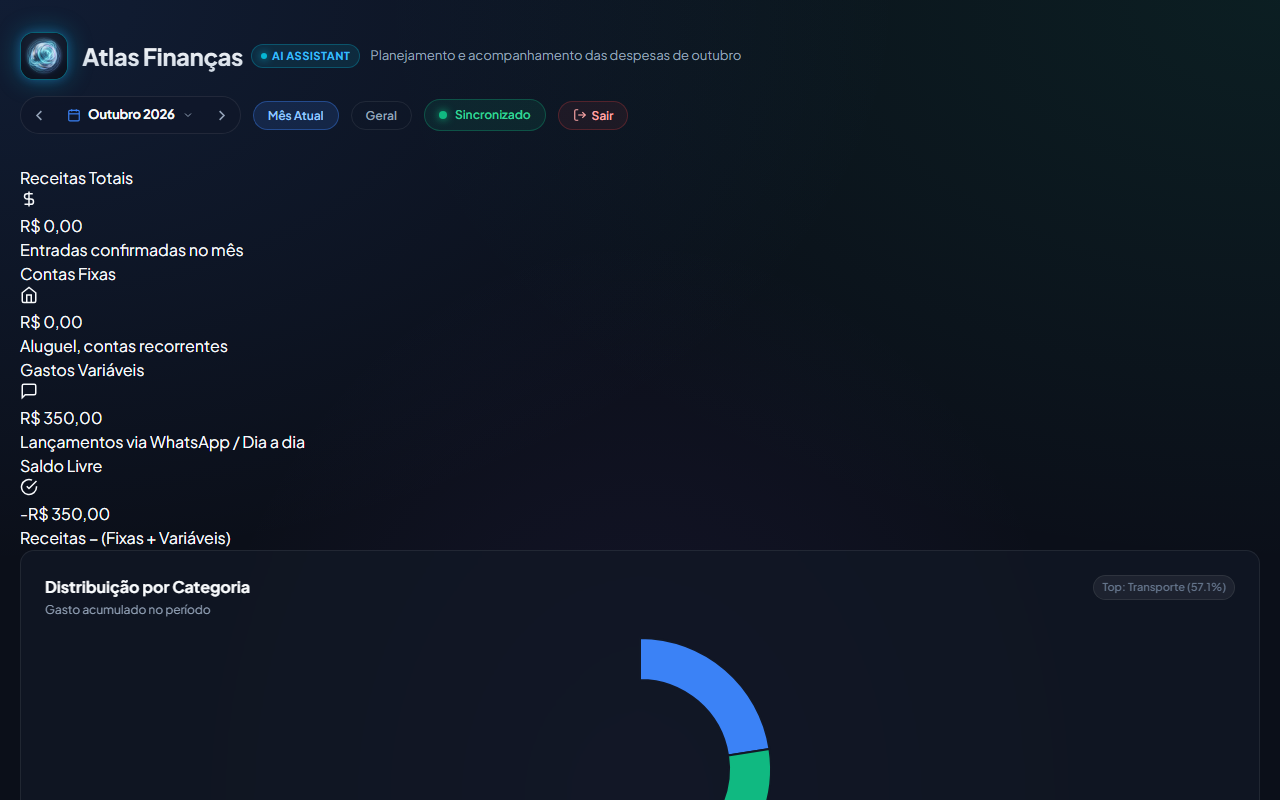
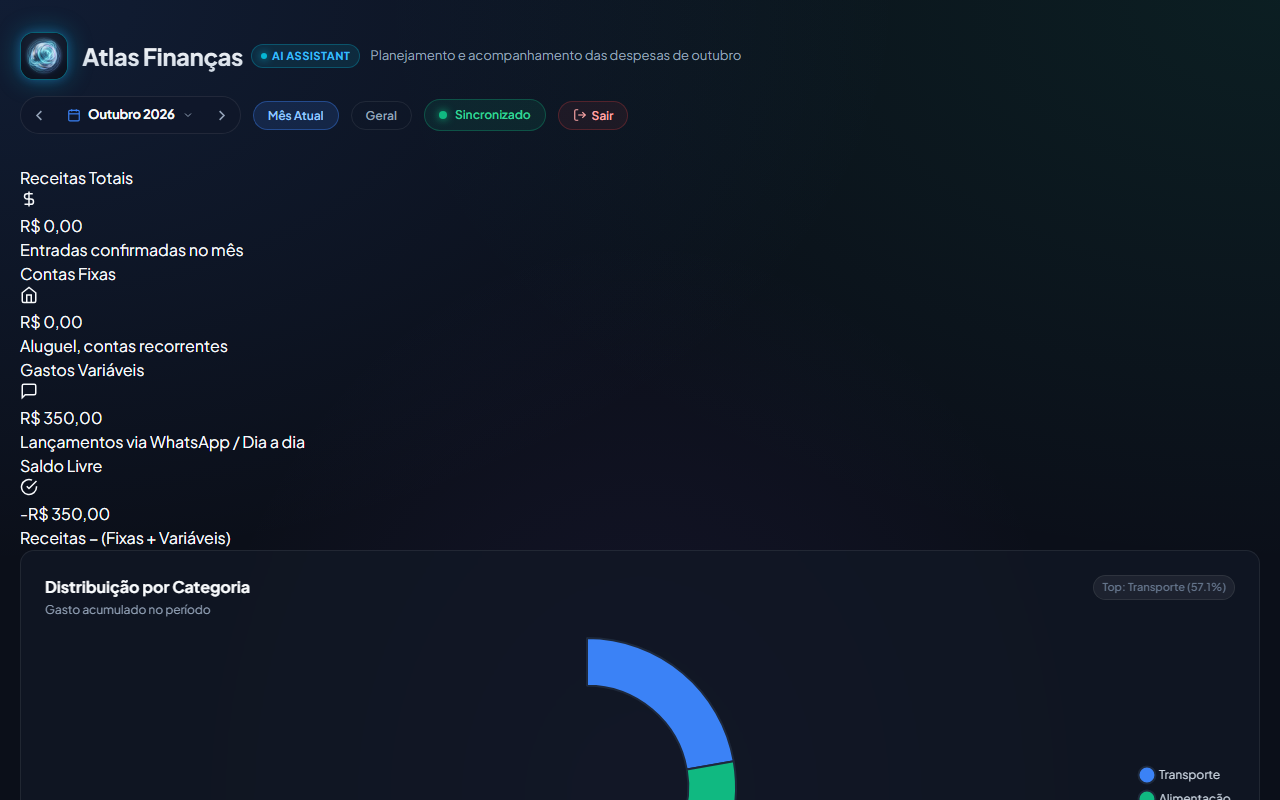
feat(build): multi-stage docker build, vite dist serving, render config and adr

Changed region(s): [[0.4375, 0.7812, 0.625, 1.0], [0.875, 0.9375, 0.9688, 1.0]]

diff --git a/frontend/src/js/components/table.ts b/frontend/src/js/components/table.ts
@@ -134,10 +134,10 @@ export function renderTableAndCards(): void {
           </td>
           <td style="text-align: right;">
             <div style="display: inline-flex; gap: 6px;">
-              <button class="btn-action" data-action="edit-tx" data-id="${t.id}" title="Editar lançamento">
+              <button class="btn-action btn-edit" data-action="edit-tx" data-id="${t.id}" title="Editar lançamento">
                 <svg width="15" height="15" fill="none" stroke="currentColor" stroke-width="2" viewBox="0 0 24 24"><path d="M11 4H4a2 2 0 0 0-2 2v14a2 2 0 0 0 2 2h14a2 2 0 0 0 2-2v-7"></path><path d="M18.5 2.5a2.121 2.121 0 0 1 3 3L12 15l-4 1 1-4 9.5-9.5z"></path></svg>
               </button>
-              <button class="btn-action delete" data-action="delete-tx" data-id="${t.id}" title="Excluir lançamento">
+              <button class="btn-action delete btn-delete" data-action="delete-tx" data-id="${t.id}" title="Excluir lançamento">
                 <svg width="15" height="15" fill="none" stroke="currentColor" stroke-width="2" viewBox="0 0 24 24"><path d="M3 6h18M19 6v14a2 2 0 0 1-2 2H7a2 2 0 0 1-2-2V6m3 0V4a2 2 0 0 1 2-2h4a2 2 0 0 1 2 2v2"></path></svg>
               </button>
             </div>
@@ -209,10 +209,10 @@ export function renderTableAndCards(): void {
               <span class="channel-badge">${escapeHtml(canalFormatado)}</span>
             </div>
             <div class="mobile-tx-actions">
-              <button class="btn-action" data-action="edit-tx" data-id="${t.id}" title="Editar">
+              <button class="btn-action btn-edit" data-action="edit-tx" data-id="${t.id}" title="Editar">
                 <svg width="15" height="15" fill="none" stroke="currentColor" stroke-width="2" viewBox="0 0 24 24"><path d="M11 4H4a2 2 0 0 0-2 2v14a2 2 0 0 0 2 2h14a2 2 0 0 0 2-2v-7"></path><path d="M18.5 2.5a2.121 2.121 0 0 1 3 3L12 15l-4 1 1-4 9.5-9.5z"></path></svg>
               </button>
-              <button class="btn-action delete" data-action="delete-tx" data-id="${t.id}" title="Excluir">
+              <button class="btn-action delete btn-delete" data-action="delete-tx" data-id="${t.id}" title="Excluir">
                 <svg width="15" height="15" fill="none" stroke="currentColor" stroke-width="2" viewBox="0 0 24 24"><path d="M3 6h18M19 6v14a2 2 0 0 1-2 2H7a2 2 0 0 1-2-2V6m3 0V4a2 2 0 0 1 2-2h4a2 2 0 0 1 2 2v2"></path></svg>
               </button>
             </div>

diff --git a/frontend/src/js/charts.ts b/frontend/src/js/charts.ts
@@ -16,12 +16,15 @@ import {
   Tooltip,
   Legend,
   Filler,
+  DoughnutController,
+  BarController,
+  LineController,
 } from "chart.js";
 import { renderChartCategorias, renderChartBalanco } from "./charts_overview";
 import { renderChartCasal, renderChartOfensores, renderChartDias } from "./charts_trends";
 import type { MetricsResponse, TransactionResponse } from "./state";
 
-// Registra apenas os elementos, escalas e plugins utilizados
+// Registra apenas os elementos, escalas, controladores e plugins utilizados
 Chart.register(
   ArcElement,
   LineElement,
@@ -31,7 +34,10 @@ Chart.register(
   LinearScale,
   Tooltip,
   Legend,
-  Filler
+  Filler,
+  DoughnutController,
+  BarController,
+  LineController
 );
 
 export function atualizarGraficos(

diff --git a/frontend/vite.config.ts b/frontend/vite.config.ts
@@ -11,9 +11,15 @@ export default defineConfig({
     rollupOptions: {
       input: {
         main: resolve(__dirname, "index.html"),
+        login: resolve(__dirname, "src/js/login.ts"),
       },
       output: {
-        entryFileNames: "assets/[name]-[hash].js",
+        entryFileNames: (chunkInfo) => {
+          if (chunkInfo.name === "login") {
+            return "assets/login.js";
+          }
+          return "assets/[name]-[hash].js";
+        },
         chunkFileNames: "assets/[name]-[hash].js",
         assetFileNames: "assets/[name]-[hash].[ext]",
       },

diff --git a/backend/main.py b/backend/main.py
@@ -144,9 +144,13 @@ async def add_security_headers(request: Request, call_next):
     if is_https or is_prod:
         response.headers["Strict-Transport-Security"] = "max-age=31536000; includeSubDomains"
 
-    # Prevenção de cache em dados sensíveis do dashboard e API
+    # Cache headers:
+    # 1. Assets com hash (gerados pelo Vite em /assets): cache imutável de longo prazo
+    # 2. Documento HTML raiz (/) e endpoints de API (/api): no-store para evitar cache de dados sensíveis
     path = request.url.path
-    if path == "/" or path.startswith("/api"):
+    if path.startswith("/assets/"):
+        response.headers["Cache-Control"] = "public, max-age=31536000, immutable"
+    elif path == "/" or path.startswith("/api") or path.startswith("/auth") or path == "/login":
         response.headers["Cache-Control"] = "no-store, no-cache, must-revalidate, max-age=0"
         response.headers["Pragma"] = "no-cache"
 
@@ -345,14 +349,18 @@ def serve_atlas_logo():
 
 
 # ------------------------------------------------------------------------------
-# ROTA RAIZ DO DASHBOARD (PROTEGIDA COM REDIRECIONAMENTO PARA /login)
+# ROTA RAIZ DO DASHBOARD E ARQUIVOS ESTÁTICOS / DIST DO VITE
 # ------------------------------------------------------------------------------
-# Servir arquivos estáticos (CSS, JS, Vendor)
-STATIC_DIR = PROJECT_ROOT / "frontend"
-if (STATIC_DIR / "src").exists():
-    app.mount("/static", StaticFiles(directory=str(STATIC_DIR / "src")), name="static")
-if (STATIC_DIR / "vendor").exists():
-    app.mount("/vendor", StaticFiles(directory=str(STATIC_DIR / "vendor")), name="vendor")
+FRONTEND_DIR = PROJECT_ROOT / "frontend"
+DIST_DIR = FRONTEND_DIR / "dist"
+
+# Servir assets hasheados de produção (se compilado via Vite em dist/assets)
+if (DIST_DIR / "assets").exists():
+    app.mount("/assets", StaticFiles(directory=str(DIST_DIR / "assets")), name="assets")
+
+# Fallback para desenvolvimento sem build: /static servindo frontend/src
+if (FRONTEND_DIR / "src").exists():
+    app.mount("/static", StaticFiles(directory=str(FRONTEND_DIR / "src")), name="static")
 
 
 @app.get("/", tags=["Dashboard"])
@@ -360,6 +368,20 @@ def serve_frontend(request: Request):
     session = require_auth_page(request)
     if not session:
         return RedirectResponse(url="/login", status_code=302)
-    frontend_index = PROJECT_ROOT / "frontend" / "index.html"
+
+    # Prioriza o build de produção (dist/index.html), com fallback para frontend/index.html
+    dist_index = DIST_DIR / "index.html"
+    if dist_index.exists():
+        return FileResponse(
+            str(dist_index),
+            media_type="text/html",
+            headers={"Cache-Control": "no-store, no-cache, must-revalidate, max-age=0"},
+        )
+
+    frontend_index = FRONTEND_DIR / "index.html"
     target_index = frontend_index if frontend_index.exists() else (PROJECT_ROOT / "index.html")
-    return FileResponse(str(target_index), media_type="text/html")
+    return FileResponse(
+        str(target_index),
+        media_type="text/html",
+        headers={"Cache-Control": "no-store, no-cache, must-revalidate, max-age=0"},
+    )

diff --git a/tests/test_headers.py b/tests/test_headers.py
@@ -58,6 +58,12 @@ def test_cache_control_no_store_on_sensitive_routes(client):
     assert "no-store" in res_api.headers.get("cache-control", "")
 
 
+def test_cache_control_immutable_on_assets(client):
+    """Assets hasheados sob /assets/ devem receber Cache-Control imutável de longo prazo."""
+    res = client.get("/assets/test-hash.js")
+    assert "public, max-age=31536000, immutable" in res.headers.get("cache-control", "")
+
+
 def test_health_check_does_not_disclose_database_type(client):
     """/health deve retornar apenas status: online sem vazar database."""
     res = client.get("/health")

diff --git a/tests/test_config.py b/tests/test_config.py
@@ -154,7 +154,8 @@ def test_no_os_getenv_or_environ_in_backend_and_scripts():
     for target in targets:
         for py_file in target.rglob("*.py"):
             # backend/config.py pode usar os.getenv para checar o ENV antes do carregamento do .env
-            if py_file.name == "config.py":
+            # scripts/export_openapi.py injeta envs seguras de mock para extrair openapi estático
+            if py_file.name in ("config.py", "export_openapi.py"):
                 continue
 
             content = py_file.read_text(encoding="utf-8")

diff --git a/backend/auth.py b/backend/auth.py
@@ -404,7 +404,7 @@ LOGIN_HTML_PAGE = """<!DOCTYPE html>
     </div>
   </div>
 
-  <script src="/static/js/login.js"></script>
+  <script src="/assets/login.js"></script>
 </body>
 </html>
 """

diff --git a/docs/adr/0001-frontend-stack.md b/docs/adr/0001-frontend-stack.md
@@ -1,0 +1,40 @@
+# ADR 0001: Frontend Stack — Vite com TypeScript Vanilla vs Framework
+
+## Contexto
+O frontend original do FinTrack consistia em um único arquivo `index.html` com mais de 3.600 linhas, mesclando marcação HTML, regras de CSS inline e scripts com variáveis globais no objeto `window`. O sistema é servido diretamente pelo backend FastAPI como uma aplicação de página única (SPA / MPA híbrida), com autenticação criptograficamente assinada por cookie de mesma origem (`SameSite=Strict`, `HttpOnly`, `Secure`).
+
+Para assegurar segurança máxima, conformidade com Content Security Policy estrita (`script-src 'self'`), testes unitários e tipagem estática integrada à API do FastAPI, foi necessário modernizar o ferramental de desenvolvimento e build do frontend.
+
+## Decisão
+Adotamos **Vite + TypeScript estrito (Vanilla DOM) + Vitest**:
+
+1. **Vite como Bundler**:
+   - Compilação ultra-rápida via esbuild e Rollup.
+   - Geração determinística de assets com hash de conteúdo (`/assets/[name]-[hash].js`), permitindo caching HTTP agressivo e seguro (`Cache-Control: public, max-age=31536000, immutable`).
+   - Servidor de desenvolvimento com proxy transparente para os endpoints `/api`, `/auth` e `/login` do backend FastAPI, preservando a política de mesma origem e cookies `SameSite=Strict`.
+
+2. **TypeScript Estrito (`noImplicitAny`, `strict: true`)**:
+   - Tipos estáticos gerados diretamente da especificação OpenAPI do backend FastAPI via `scripts/export_openapi.py` e `openapi-typescript`.
+   - Cliente HTTP tipado (`openapi-fetch`), prevenindo divergências de contrato em tempo de compilação sem custos adicionais de runtime.
+
+3. **Arquitetura Modular Vanilla (sem framework pesado)**:
+   - Mantém a interface leve, eliminando custos de hidratação, Virtual DOM ou runtime overhead desnecessário para o escopo atual.
+   - Padrão arquitetural reativo limpo com Store simples pub/sub (`state.ts`), componentes desacoplados (`components/`) e delegação centralizada de eventos via atributos `data-action`.
+
+4. **Docker Multi-Stage**:
+   - Estágio 1 (`node:20-slim`) executa `npm ci` e `npm run build`, produzindo o diretório hermético `frontend/dist`.
+   - Estágio 2/3 (`python:3.12-slim`) recebe apenas os artefatos estáticos compilados em `frontend/dist`, eliminando dependências Node do container de produção.
+
+## Critérios para Migração Futura para Framework (React / Vue / Svelte)
+Esta decisão de manter TypeScript Vanilla deve ser reavaliada caso surjam os seguintes requisitos:
+
+1. **Redesenho Visual Completo ou Sistema de Design Complexo**:
+   - Adoção de bibliotecas avançadas de componentes (Tailwind UI, Radix, Shadcn/ui) que demandem abstrações de componentes JSX/SFC.
+2. **Gerenciamento de Estado Altamente Concorrente**:
+   - Múltiplas abas ativas, sincronização em tempo real via WebSockets (ex.: conciliação multi-dispositivo) onde o Virtual DOM ou reatividade por sinal (Signals) traga ganhos expressivos de manutenibilidade.
+3. **Formulários Dinâmicos e Validação Client-side Extensiva**:
+   - Criação de fluxos wizard ou telas com centenas de inputs dinâmicos onde bibliotecas como React Hook Form ou Zod integrado façam diferença mensurável.
+
+## Consequências
+- **Positivas**: Bundle compilado extremamente enxuto (~75 kB gzipped incluindo Chart.js); zero dependência de CDN externa; CSP estrita sem 'unsafe-inline'; tipagem estática e testes unitários com Vitest rodando em < 1.5s.
+- **Negativas / Atenção**: A manipulação de nós de DOM e renderização condicional exige cuidado redobrado com funções de escape (`escapeHtml` / `dom.ts`) para evitar vulnerabilidades de XSS.
